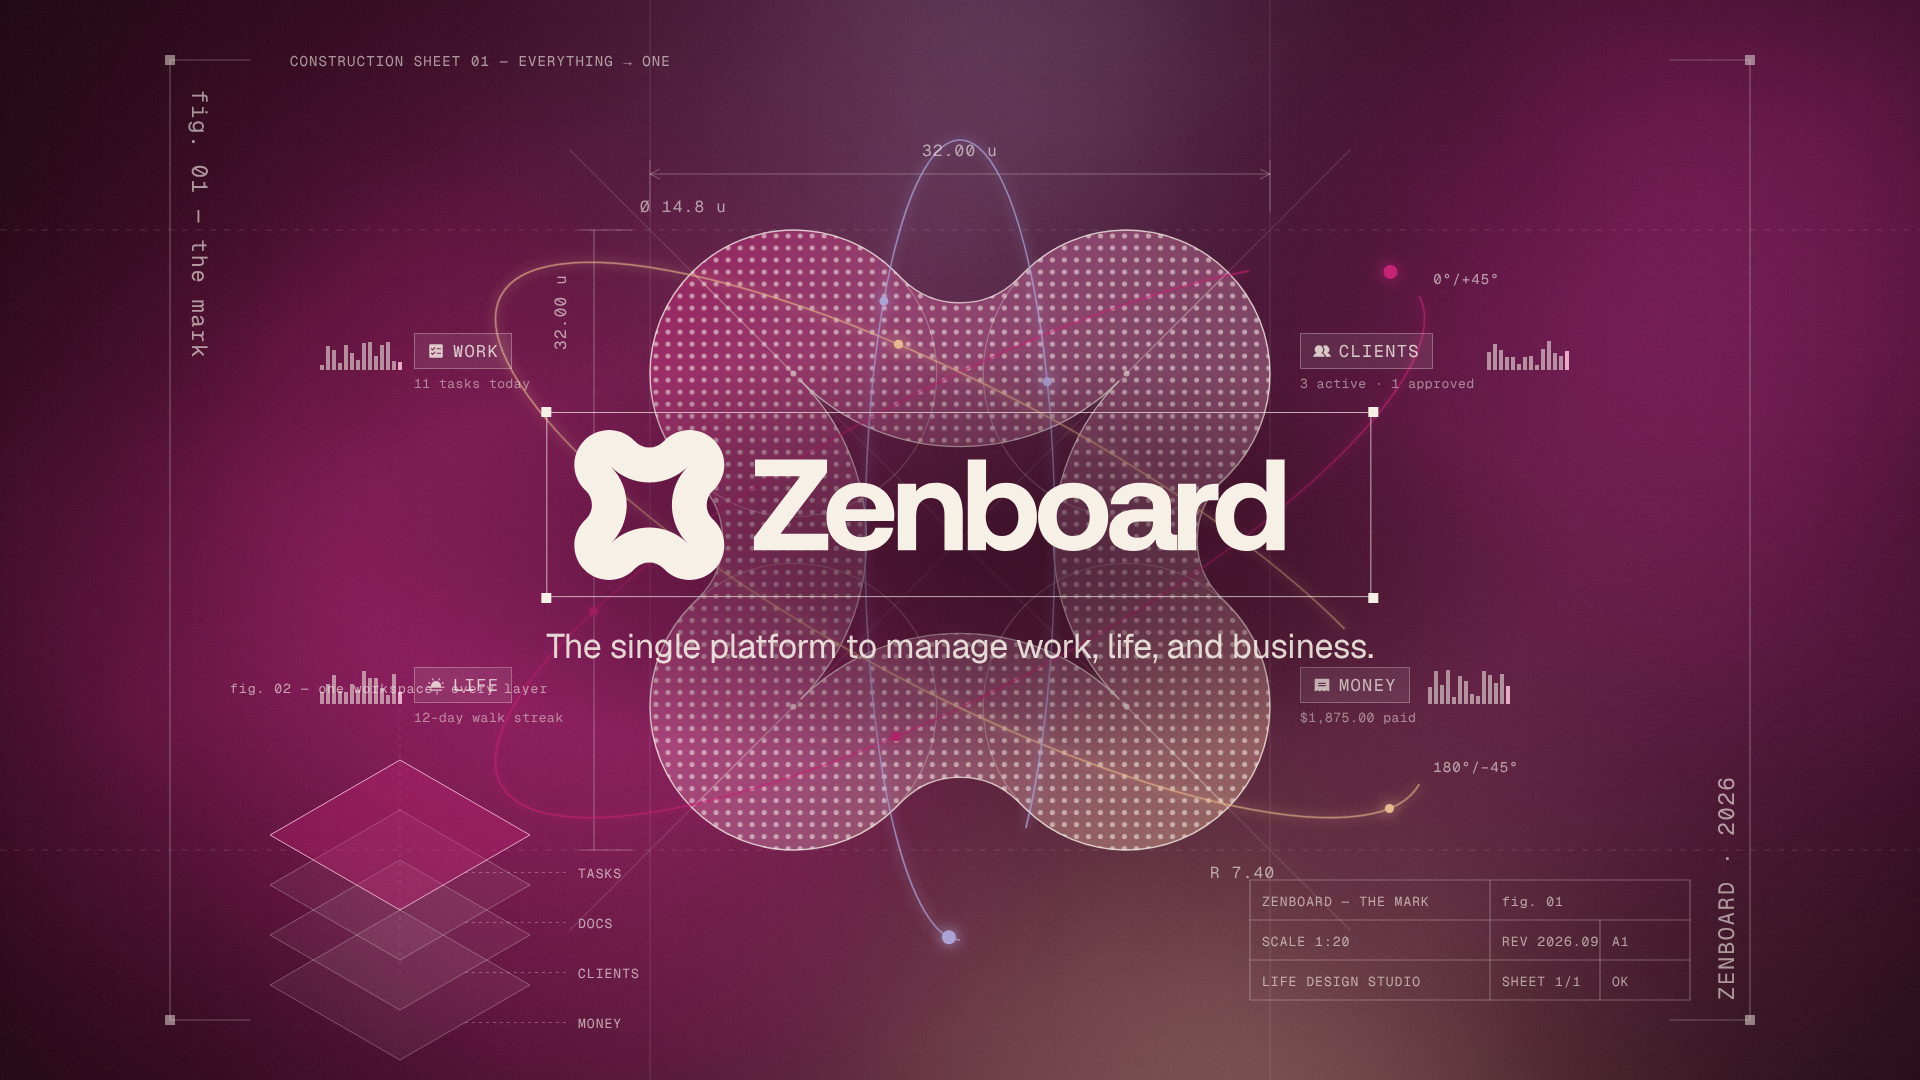
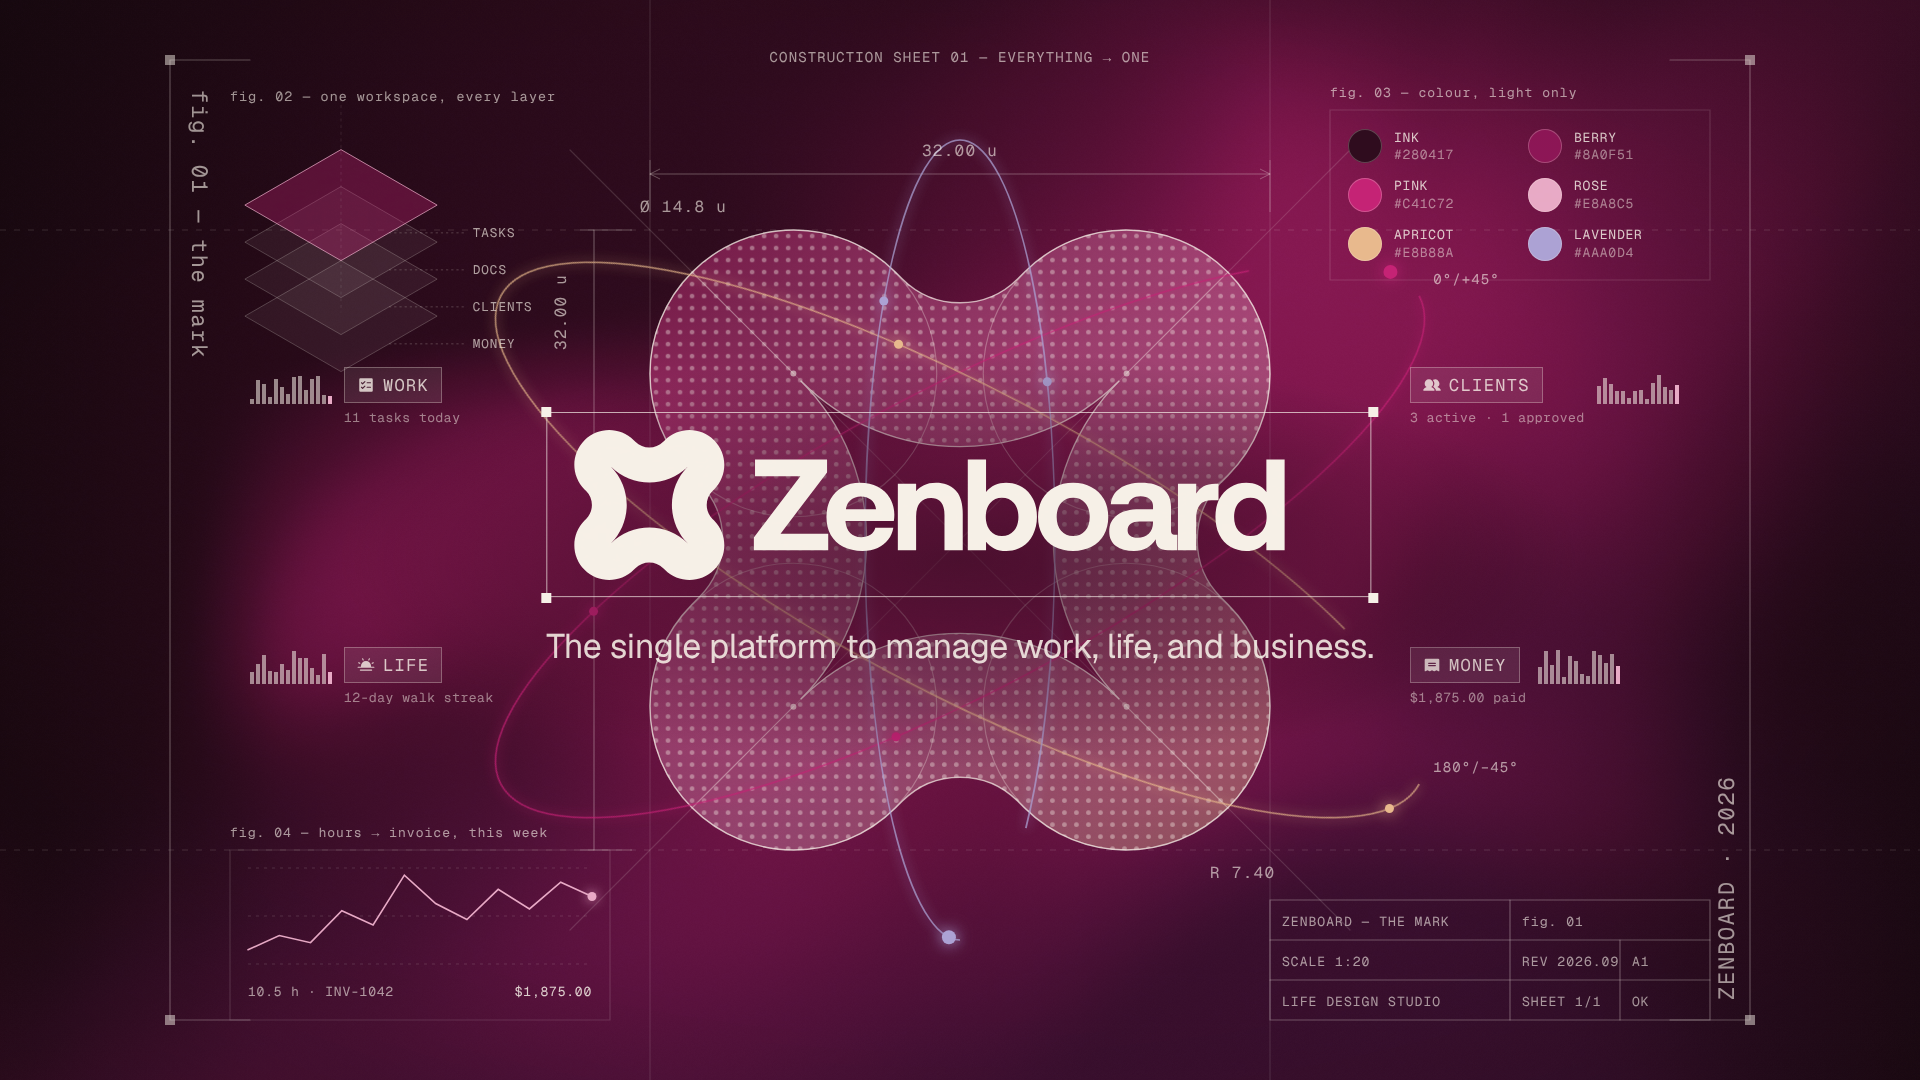
Outro: soft mesh-gradient background, subtler grain, elements spread to the corners
Replaces the energy-field pools with a slow domain-warped mesh (berry and
pink ribbons over plum and violet), dither-level grain, and an optional
Finish grain. Moves fig. 02 to the top left, adds fig. 03 palette (top
right) and fig. 04 hours-to-invoice readout (bottom left), and pushes the
feature tags clear of the lockup.

Claude-Session: https://claude.ai/code/session_01HAwhHLAM92jANSscyNyHw5

diff --git a/launch-video/src/scenes/Outro.tsx b/launch-video/src/scenes/Outro.tsx
@@ -7,9 +7,10 @@ import { EASE, clamp } from "../brand/motion";
 import { respond } from "../brand/physics";
 import { energy, stage } from "../brand/tokens";
 import { Icon } from "../components/Glyph";
-import { EnergyField } from "../gl/EnergyField";
+import { MeshGradient } from "../gl/MeshGradient";
 import { Finish } from "../ui/Stage";
 import { Lockup } from "../ui/Lockup";
+import { JOB } from "../data/acme";
 import { rnd } from "./shared3";
 
 /**
@@ -103,7 +104,7 @@ const Exploded: React.FC<{ f: number; x: number; y: number }> = ({ f, x, y }) =>
   const iso = (px: number, py: number) => `${px * 0.866 - py * 0.866},${(px + py) * 0.5}`;
   const W = 150;
   return (
-    <div style={{ position: "absolute", left: x, top: y, opacity: at(f, 140, 170) }}>
+    <div style={{ position: "absolute", left: x, top: y, opacity: at(f, 140, 170), transform: "scale(0.74)", transformOrigin: "0 0" }}>
       <svg width={360} height={300} style={{ overflow: "visible" }}>
         {layers.map((l, i) => {
           const dy = 190 - i * (16 + 34 * open);
@@ -114,7 +115,7 @@ const Exploded: React.FC<{ f: number; x: number; y: number }> = ({ f, x, y }) =>
               <polygon points={`${iso(0, W)} ${iso(W, W)} ${iso(W, W)},6 ${iso(0, W)},6`} fill="none" />
               {/* The leader line and its label. */}
               <line x1={iso(W, W / 2).split(",")[0]} y1={iso(W, W / 2).split(",")[1]} x2={170} y2={Number(iso(W, W / 2).split(",")[1])} stroke={LINE} strokeDasharray="3 4" />
-              <text x={178} y={Number(iso(W, W / 2).split(",")[1]) + 5} fill={CREAM(0.65)} fontFamily={MONO} fontSize={13} letterSpacing="0.08em">
+              <text x={178} y={Number(iso(W, W / 2).split(",")[1]) + 5} fill={CREAM(0.65)} fontFamily={MONO} fontSize={17} letterSpacing="0.08em">
                 {l.label}
               </text>
             </g>
@@ -123,7 +124,7 @@ const Exploded: React.FC<{ f: number; x: number; y: number }> = ({ f, x, y }) =>
         {/* The vertical assembly axis. */}
         <line x1={150} y1={40 - 60 * open} x2={150} y2={260} stroke={SOFT} strokeDasharray="4 5" />
       </svg>
-      <Mono x={-20} y={-40} o={1} size={13}>
+      <Mono x={0} y={-44} o={1} size={18}>
         fig. 02 — one workspace, every layer
       </Mono>
     </div>
@@ -176,6 +177,68 @@ const orbitPoint = (o: (typeof ORBITS)[number], a: number) => {
   return { x: C.x + x * Math.cos(t) - y * Math.sin(t), y: C.y + x * Math.sin(t) + y * Math.cos(t) };
 };
 
+
+/** A corner sheet: a hairline frame with a mono caption, the drawing's side notes. */
+const Sheet: React.FC<{ x: number; y: number; w: number; h: number; p: number; caption: string; children: React.ReactNode }> = ({ x, y, w, h, p, caption, children }) => (
+  <div style={{ position: "absolute", left: x, top: y, width: w, height: h }}>
+    <svg width={w} height={h} style={{ position: "absolute", inset: 0, overflow: "visible" }}>
+      <Draw d={`M0 0 H${w} V${h} H0 Z`} p={p} stroke={SOFT} />
+    </svg>
+    <div style={{ position: "absolute", left: 0, top: -26, fontFamily: MONO, fontSize: 13, letterSpacing: "0.08em", color: CREAM(0.62), opacity: p, whiteSpace: "nowrap" }}>{caption}</div>
+    <div style={{ position: "absolute", inset: 0, opacity: at(p, 0.4, 1) }}>{children}</div>
+  </div>
+);
+
+/** fig. 03: the brand palette as swatches with their values (brand-construction reference). */
+const PALETTE = [
+  { name: "INK", hex: stage.ink },
+  { name: "BERRY", hex: "#8A0F51" },
+  { name: "PINK", hex: energy.pink },
+  { name: "ROSE", hex: energy.rose },
+  { name: "APRICOT", hex: energy.apricot },
+  { name: "LAVENDER", hex: energy.lavender },
+];
+const Palette: React.FC<{ f: number }> = ({ f }) => (
+  <div style={{ position: "absolute", inset: 18, display: "grid", gridTemplateColumns: "1fr 1fr", gap: "12px 16px" }}>
+    {PALETTE.map((c, i) => {
+      const o = at(f, 150 + i * 5, 175 + i * 5);
+      return (
+        <div key={c.name} style={{ display: "flex", alignItems: "center", gap: 12, opacity: o, translate: `0 ${(1 - o) * 8}px` }}>
+          <div style={{ width: 34, height: 34, borderRadius: 999, background: c.hex, boxShadow: `inset 0 0 0 1px ${CREAM(0.25)}` }} />
+          <div style={{ fontFamily: MONO, fontSize: 13, letterSpacing: "0.06em", lineHeight: 1.35 }}>
+            <div style={{ color: CREAM(0.82) }}>{c.name}</div>
+            <div style={{ color: CREAM(0.5) }}>{c.hex.toUpperCase()}</div>
+          </div>
+        </div>
+      );
+    })}
+  </div>
+);
+
+/** fig. 04: this week's tracked hours becoming the invoice, as a plotted readout. */
+const Readout: React.FC<{ f: number }> = ({ f }) => {
+  const W = 344;
+  const H = 96;
+  const pts = [0.8, 1.6, 1.2, 3.0, 2.2, 5.0, 3.4, 2.5, 4.2, 3.1, 4.6, 3.8];
+  const d = pts.map((v, i) => `${i ? "L" : "M"} ${(i / (pts.length - 1)) * W} ${H - (v / 5.4) * H}`).join(" ");
+  const hours = JOB.hours.reduce((a, h) => a + h.h, 0);
+  return (
+    <div style={{ position: "absolute", inset: 18 }}>
+      <svg width={W} height={H} style={{ overflow: "visible" }}>
+        {[0, 0.5, 1].map((g) => (
+          <line key={g} x1={0} x2={W} y1={H * g} y2={H * g} stroke={SOFT} strokeDasharray="3 5" />
+        ))}
+        <Draw d={d} p={at(f, 160, 230)} stroke={energy.rose} w={1.6} />
+        <circle cx={W} cy={H - (3.8 / 5.4) * H} r={4.5} fill={energy.rose} opacity={at(f, 225, 240)} style={{ filter: `drop-shadow(0 0 6px ${energy.rose})` }} />
+      </svg>
+      <div style={{ display: "flex", justifyContent: "space-between", marginTop: 14, fontFamily: MONO, fontSize: 13, letterSpacing: "0.06em", color: CREAM(0.62) }}>
+        <span>{hours.toFixed(1)} h · {JOB.invoice.id}</span>
+        <span style={{ color: CREAM(0.85) }}>${JOB.invoice.amount.toLocaleString("en-US")}.00</span>
+      </div>
+    </div>
+  );
+};
+
 export const OutroArt: React.FC<{ f: number }> = ({ f }) => {
   const field = at(f, 0, 70);
   const frame = at(f, 0, 50);
@@ -192,7 +255,7 @@ export const OutroArt: React.FC<{ f: number }> = ({ f }) => {
   return (
     <div style={{ position: "absolute", inset: 0, overflow: "hidden", background: stage.ink, fontFamily: FONT }}>
       <div style={{ position: "absolute", inset: 0, opacity: 0.25 + 0.75 * field }}>
-        <EnergyField t={f / 60 + 3} intensity={0.35 + 0.65 * field} frame={f} />
+        <MeshGradient t={f / 60 + 3} intensity={0.4 + 0.6 * field} frame={f} />
       </div>
 
       {/* The mark: an energy-lit translucent body, a halftone screen, a traced outline. */}
@@ -204,7 +267,7 @@ export const OutroArt: React.FC<{ f: number }> = ({ f }) => {
             <stop offset="1" stopColor={energy.apricot} stopOpacity={0.4} />
           </linearGradient>
           <pattern id="dots" width={0.62} height={0.62} patternUnits="userSpaceOnUse">
-            <circle cx={0.31} cy={0.31} r={0.13} fill={CREAM(0.55)} />
+            <circle cx={0.31} cy={0.31} r={0.12} fill={CREAM(0.38)} />
           </pattern>
           <clipPath id="grow">
             <circle cx={16} cy={16} r={24 * halftone} />
@@ -285,21 +348,28 @@ export const OutroArt: React.FC<{ f: number }> = ({ f }) => {
           </Mono>
         );
       })}
-      <Tag x={LOBES[0].x - R - 330} y={LOBES[0].y - 40} icon="list-checks" label="WORK" data="11 tasks today" f={f} t0={120} seed="w" />
-      <Tag x={LOBES[1].x + R + 30} y={LOBES[1].y - 40} icon="users" label="CLIENTS" data="3 active · 1 approved" f={f} t0={128} seed="c" right />
-      <Tag x={LOBES[2].x - R - 330} y={LOBES[2].y - 40} icon="sun-horizon" label="LIFE" data="12-day walk streak" f={f} t0={136} seed="l" />
-      <Tag x={LOBES[3].x + R + 30} y={LOBES[3].y - 40} icon="receipt" label="MONEY" data="$1,875.00 paid" f={f} t0={144} seed="m" right />
+      <Tag x={LOBES[0].x - R - 400} y={LOBES[0].y - 6} icon="list-checks" label="WORK" data="11 tasks today" f={f} t0={120} seed="w" />
+      <Tag x={LOBES[1].x + R + 140} y={LOBES[1].y - 6} icon="users" label="CLIENTS" data="3 active · 1 approved" f={f} t0={128} seed="c" right />
+      <Tag x={LOBES[2].x - R - 400} y={LOBES[2].y - 60} icon="sun-horizon" label="LIFE" data="12-day walk streak" f={f} t0={136} seed="l" />
+      <Tag x={LOBES[3].x + R + 140} y={LOBES[3].y - 60} icon="receipt" label="MONEY" data="$1,875.00 paid" f={f} t0={144} seed="m" right />
       <Mono x={214} y={90} o={frame} rotate={90} size={22}>
         fig. 01 — the mark
       </Mono>
       <Mono x={1712} y={1000} o={frame} rotate={-90} size={22}>
         ZENBOARD · 2026
       </Mono>
-      <Mono x={290} y={52} o={at(f, 30, 70)} size={14}>
+      <Mono x={C.x} y={48} o={at(f, 30, 70)} size={14} align="center">
         CONSTRUCTION SHEET 01 — EVERYTHING → ONE
       </Mono>
-      <Exploded f={f} x={250} y={720} />
-      <TitleBlock f={f} x={1250} y={880} />
+      {/* Top left: the exploded workspace; top right: the palette; bottom left: the readout. */}
+      <Exploded f={f} x={230} y={120} />
+      <Sheet x={1330} y={110} w={380} h={170} p={at(f, 140, 190)} caption="fig. 03 — colour, light only">
+        <Palette f={f} />
+      </Sheet>
+      <Sheet x={230} y={850} w={380} h={170} p={at(f, 150, 200)} caption="fig. 04 — hours → invoice, this week">
+        <Readout f={f} />
+      </Sheet>
+      <TitleBlock f={f} x={1270} y={900} />
 
       {/* A soft ink scrim so the lockup and tagline read over the drawing. */}
       <div style={{ position: "absolute", left: C.x - 620, top: C.y - 190, width: 1240, height: 420, borderRadius: "50%", background: `radial-gradient(closest-side, rgba(40,4,23,.62), rgba(40,4,23,.3) 60%, transparent)`, opacity: lock }} />

diff --git a/launch-video/src/gl/MeshGradient.tsx b/launch-video/src/gl/MeshGradient.tsx
@@ -1,0 +1,93 @@
+import React, { useLayoutEffect, useRef } from "react";
+import { energy, stage } from "../brand/tokens";
+import { GLSL_NOISE, VERT_QUAD, compile, quad, rgb } from "./gl";
+
+/**
+ * A soft mesh gradient on the Ink stage (outro reference: a slow, flowing
+ * magenta / red / violet mesh). Broad ribbons of berry and pink light fold
+ * through deep plum and violet over the ink base; the domain is warped twice
+ * with low-octave noise so every edge is a long, smooth blend. Only a
+ * whisper of dithered grain, enough to stop banding. `t` drives the drift;
+ * `intensity` scales the light.
+ */
+const FRAG = `#version 300 es
+precision highp float;
+in vec2 vUv; out vec4 o;
+uniform float t, intensity, seed;
+uniform vec2 res;
+uniform vec3 cInk, cEdge, cPlum, cViolet, cBerry, cPink, cRose, cApri;
+${GLSL_NOISE}
+// Low-octave fbm: big, soft shapes only.
+float soft(vec2 p){ float v = 0., a = .55; for (int i = 0; i < 3; i++){ v += a * noise(p); p = p * 1.9 + 11.3; a *= .45; } return v / .9; }
+void main(){
+  vec2 a = vec2(res.x / res.y, 1.);
+  vec2 p = vUv * a;
+  float s = t * .05;
+  // Two passes of domain warp: the mesh "flows".
+  vec2 q = vec2(soft(p * .8 + vec2(0., s)), soft(p * .8 + vec2(5.2, -s * .8)));
+  vec2 r = vec2(soft(p * .9 + q * 1.7 + vec2(1.7, 9.2) + s * .6), soft(p * .9 + q * 1.7 + vec2(8.3, 2.8) - s * .5));
+  // A long diagonal ribbon, bent by the warp (the reference's sweeping bands).
+  float rib = .5 + .5 * sin((p.x * .9 - p.y * 1.25) * 2.4 + (r.x - .5) * 6. + s * 3.);
+  float v = soft(p * .7 + r * 1.5);
+
+  // Base: ink, sinking to the edge colour toward the corners.
+  vec3 col = mix(cInk, cEdge, smoothstep(.3, 1.1, length((vUv - .5) * a * .9)));
+  // Violet shadows and plum depth.
+  col = mix(col, cPlum,   smoothstep(.4, .8, r.y) * .7);
+  col = mix(col, cViolet, smoothstep(.5, .8, q.x) * smoothstep(.25, .75, 1. - rib) * .6);
+  // Berry body and pink light along the ribbon; dark valleys between.
+  float body = smoothstep(.45, .85, v * .5 + rib * .5);
+  col = mix(col, cBerry, body * .85 * intensity);
+  float hot = smoothstep(.66, .98, v * .4 + rib * .6);
+  col = mix(col, cPink, hot * .75 * intensity);
+  col = mix(col, cRose, pow(hot, 3.) * .25 * intensity);
+  // A breath of apricot where the light is strongest, low in frame.
+  col = mix(col, cApri, pow(hot, 4.) * smoothstep(.3, 1., vUv.y) * .12 * intensity);
+  // Corners fall back into the ink.
+  col *= mix(1., .55, smoothstep(.45, 1.15, length((vUv - .5) * a * .9)));
+  // Keep it quiet: overall level so the drawing and type read on top.
+  col *= .78 + .22 * intensity;
+  // Dither-level grain only (triangular, ±0.6%).
+  float g = hash(gl_FragCoord.xy + seed * 13.1) + hash(gl_FragCoord.yx + seed * 7.7) - 1.;
+  col += g * .006;
+  o = vec4(col, 1.);
+}`;
+
+type St = { gl: WebGL2RenderingContext; u: Record<string, WebGLUniformLocation | null> };
+
+const COLOURS: Record<string, string> = {
+  cInk: stage.ink,
+  cEdge: stage.inkEdge,
+  cPlum: "#3A0A32",
+  cViolet: "#4A2F78",
+  cBerry: "#8A0F51",
+  cPink: energy.pink,
+  cRose: energy.rose,
+  cApri: energy.apricot,
+};
+
+export const MeshGradient: React.FC<{ t: number; intensity?: number; frame: number }> = ({ t, intensity = 1, frame }) => {
+  const ref = useRef<HTMLCanvasElement>(null);
+  const st = useRef<St | null>(null);
+  useLayoutEffect(() => {
+    const c = ref.current!;
+    if (!st.current) {
+      const gl = c.getContext("webgl2", { preserveDrawingBuffer: true })!;
+      const pr = compile(gl, VERT_QUAD, FRAG);
+      gl.useProgram(pr);
+      quad(gl, pr);
+      const names = ["t", "intensity", "seed", "res", ...Object.keys(COLOURS)];
+      const u = Object.fromEntries(names.map((n) => [n, gl.getUniformLocation(pr, n)]));
+      for (const [k, hex] of Object.entries(COLOURS)) gl.uniform3fv(u[k], rgb(hex));
+      st.current = { gl, u };
+    }
+    const { gl, u } = st.current;
+    gl.viewport(0, 0, c.width, c.height);
+    gl.uniform2f(u.res, c.width, c.height);
+    gl.uniform1f(u.t, t);
+    gl.uniform1f(u.intensity, intensity);
+    gl.uniform1f(u.seed, frame % 97);
+    gl.drawArrays(gl.TRIANGLE_STRIP, 0, 4);
+  }, [t, intensity, frame]);
+  return <canvas ref={ref} width={1920} height={1080} style={{ position: "absolute", inset: 0, width: "100%", height: "100%" }} />;
+};

diff --git a/launch-video/src/ui/Stage.tsx b/launch-video/src/ui/Stage.tsx
@@ -38,12 +38,12 @@ export const Stage: React.FC<{ kind: "ink" | "ivory"; haze?: number; children: R
 );
 
 /** Film finish over everything: grain 3% and a 10% burgundy vignette (never black). */
-export const Finish: React.FC = () => (
+export const Finish: React.FC<{ grain?: number }> = ({ grain = 0.03 }) => (
   <>
     <AbsoluteFill style={{ pointerEvents: "none", background: `radial-gradient(ellipse 85% 80% at 50% 50%, transparent 55%, rgba(40, 4, 23, 0.10) 100%)` }} />
-    {hasFile("img/IMG-04.png") ? (
+    {grain > 0 && hasFile("img/IMG-04.png") ? (
       <AbsoluteFill style={{ pointerEvents: "none" }}>
-        <Img src={staticFile("img/IMG-04.png")} style={{ width: "100%", height: "100%", objectFit: "cover", opacity: 0.03 }} />
+        <Img src={staticFile("img/IMG-04.png")} style={{ width: "100%", height: "100%", objectFit: "cover", opacity: grain }} />
       </AbsoluteFill>
     ) : null}
   </>
